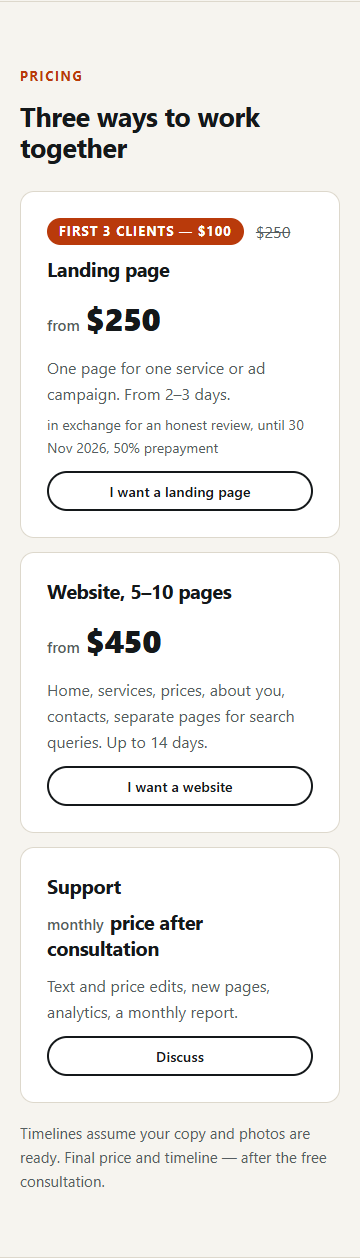
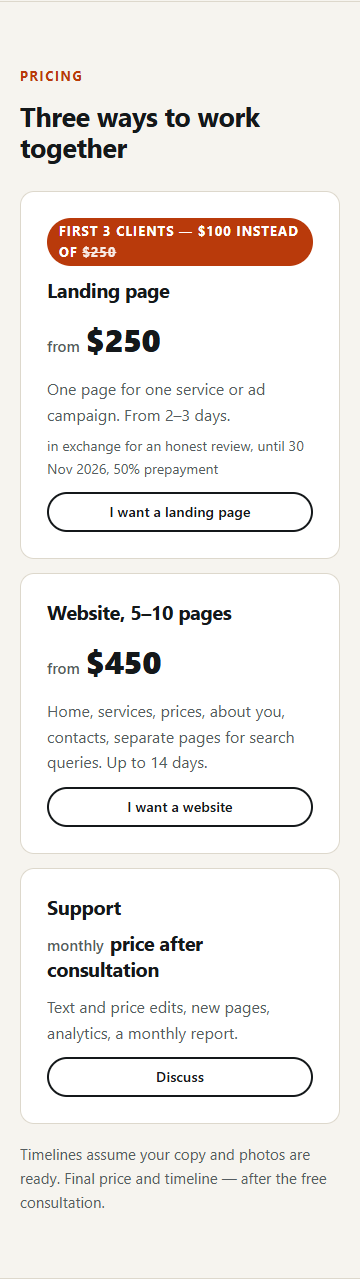
Landing badge on one line with <del>; main #contact works without JS
/sites/: the promo is one badge ('First 3 clients — $100 instead of <del>$250</del>'), <del> inherits the badge colour at opacity .9 (AA contrast). Main pages: #contact gets a static Telegram link, .js-only email controls, <noscript><style> in the head and the new noscript text. style.css v=9 on all six pages.

diff --git a/ua/index.html b/ua/index.html
@@ -27,7 +27,7 @@
 <meta property="og:locale" content="uk_UA">
 <meta property="og:locale:alternate" content="en_US">
 <meta name="twitter:card" content="summary_large_image">
-<link rel="stylesheet" href="../css/style.css?v=8">
+<link rel="stylesheet" href="../css/style.css?v=9">
 <script type="application/ld+json">
 {
   "@context": "https://schema.org",
@@ -65,6 +65,7 @@
   ]
 }
 </script>
+<noscript><style>.js-only{display:none}</style></noscript>
 </head>
 <body>
 <a class="skip" href="#main">Перейти до змісту</a>
@@ -372,14 +373,14 @@
       <p class="lead">Достатньо одного повідомлення: посилання і що ви хочете дізнатися чи виправити. Я відповім безкоштовним першим переглядом.</p>
       <div class="contact__buttons">
         <a class="btn btn--primary" href="https://www.fiverr.com/maxf_itsak" target="_blank" rel="noopener" data-fiverr-link data-contact="fiverr">Fiverr</a>
-        <a class="btn" href="#contact" data-email-link data-contact="email">Email</a>
-        <a class="btn" href="#contact" target="_blank" rel="noopener" data-telegram-link data-contact="telegram">Telegram</a>
+        <a class="btn js-only" href="#contact" data-email-link data-contact="email">Email</a>
+        <a class="btn" href="https://t.me/studiofits" target="_blank" rel="noopener" data-telegram-link data-contact="telegram">Telegram</a>
       </div>
-      <div class="email-row">
+      <div class="email-row js-only">
         <code data-email-text></code>
         <button type="button" class="btn btn--small" data-copy-email data-done="Скопійовано">Копіювати</button>
       </div>
-      <noscript><p class="noscript">Email і Telegram потребують JavaScript. Мене завжди можна знайти на Fiverr.</p></noscript>
+      <noscript><p class="noscript">Без JavaScript: скористайтесь формою вище або Telegram <a href="https://t.me/studiofits" target="_blank" rel="noopener">@studiofits</a></p></noscript>
     </div>
   </section>
 

diff --git a/index.html b/index.html
@@ -27,7 +27,7 @@
 <meta property="og:locale" content="en_US">
 <meta property="og:locale:alternate" content="uk_UA">
 <meta name="twitter:card" content="summary_large_image">
-<link rel="stylesheet" href="css/style.css?v=8">
+<link rel="stylesheet" href="css/style.css?v=9">
 <script type="application/ld+json">
 {
   "@context": "https://schema.org",
@@ -64,6 +64,7 @@
   ]
 }
 </script>
+<noscript><style>.js-only{display:none}</style></noscript>
 </head>
 <body>
 <a class="skip" href="#main">Skip to content</a>
@@ -372,14 +373,14 @@
       <p class="lead">One message is enough: a link and what you want to learn or fix. I reply with a free first look.</p>
       <div class="contact__buttons">
         <a class="btn btn--primary" href="https://www.fiverr.com/maxf_itsak" target="_blank" rel="noopener" data-fiverr-link data-contact="fiverr">Fiverr</a>
-        <a class="btn" href="#contact" data-email-link data-contact="email">Email</a>
-        <a class="btn" href="#contact" target="_blank" rel="noopener" data-telegram-link data-contact="telegram">Telegram</a>
+        <a class="btn js-only" href="#contact" data-email-link data-contact="email">Email</a>
+        <a class="btn" href="https://t.me/studiofits" target="_blank" rel="noopener" data-telegram-link data-contact="telegram">Telegram</a>
       </div>
-      <div class="email-row">
+      <div class="email-row js-only">
         <code data-email-text></code>
         <button type="button" class="btn btn--small" data-copy-email data-done="Copied">Copy</button>
       </div>
-      <noscript><p class="noscript">Email and Telegram details need JavaScript. You can always reach me on Fiverr.</p></noscript>
+      <noscript><p class="noscript">Without JavaScript: use the form above or Telegram <a href="https://t.me/studiofits" target="_blank" rel="noopener">@studiofits</a></p></noscript>
     </div>
   </section>
 

diff --git a/ua/sites/index.html b/ua/sites/index.html
@@ -27,7 +27,7 @@
 <meta property="og:locale" content="uk_UA">
 <meta property="og:locale:alternate" content="en_US">
 <meta name="twitter:card" content="summary_large_image">
-<link rel="stylesheet" href="../../css/style.css?v=8">
+<link rel="stylesheet" href="../../css/style.css?v=9">
 <script type="application/ld+json">
 {
   "@context": "https://schema.org",
@@ -169,7 +169,7 @@
       <h2 class="h2">Три формати роботи</h2>
       <div class="cards cards--three">
         <article class="card">
-          <p class="card__promo"><span class="badge">Перші 3 клієнти — 4&nbsp;000&nbsp;грн</span> <del>10&nbsp;000&nbsp;грн</del></p>
+          <span class="badge">Перші 3 клієнти — 4&nbsp;000&nbsp;грн замість <del>10&nbsp;000&nbsp;грн</del></span>
           <h3>Лендинг</h3>
           <p class="card__price"><span>від</span>10&nbsp;000&nbsp;грн</p>
           <p>Одна сторінка під одну послугу чи рекламу. Від 2–3 днів.</p>

diff --git a/sites/index.html b/sites/index.html
@@ -27,7 +27,7 @@
 <meta property="og:locale" content="en_US">
 <meta property="og:locale:alternate" content="uk_UA">
 <meta name="twitter:card" content="summary_large_image">
-<link rel="stylesheet" href="../css/style.css?v=8">
+<link rel="stylesheet" href="../css/style.css?v=9">
 <script type="application/ld+json">
 {
   "@context": "https://schema.org",
@@ -169,7 +169,7 @@
       <h2 class="h2">Three ways to work together</h2>
       <div class="cards cards--three">
         <article class="card">
-          <p class="card__promo"><span class="badge">First 3 clients — $100</span> <del>$250</del></p>
+          <span class="badge">First 3 clients — $100 instead of <del>$250</del></span>
           <h3>Landing page</h3>
           <p class="card__price"><span>from</span>$250</p>
           <p>One page for one service or ad campaign. From 2–3 days.</p>

diff --git a/ua/privacy/index.html b/ua/privacy/index.html
@@ -13,7 +13,7 @@
 <link rel="icon" href="../../favicon.svg" type="image/svg+xml">
 <link rel="icon" href="../../favicon-32.png" sizes="32x32" type="image/png">
 <link rel="apple-touch-icon" href="../../apple-touch-icon.png">
-<link rel="stylesheet" href="../../css/style.css?v=8">
+<link rel="stylesheet" href="../../css/style.css?v=9">
 </head>
 <body>
 <a class="skip" href="#main">Перейти до змісту</a>

diff --git a/privacy/index.html b/privacy/index.html
@@ -13,7 +13,7 @@
 <link rel="icon" href="../favicon.svg" type="image/svg+xml">
 <link rel="icon" href="../favicon-32.png" sizes="32x32" type="image/png">
 <link rel="apple-touch-icon" href="../apple-touch-icon.png">
-<link rel="stylesheet" href="../css/style.css?v=8">
+<link rel="stylesheet" href="../css/style.css?v=9">
 </head>
 <body>
 <a class="skip" href="#main">Skip to content</a>

diff --git a/css/style.css b/css/style.css
@@ -341,4 +341,4 @@ body.is-dialog-open .sticky-cta { display: none; }
 }
 
 del { color: var(--muted); }
-.card .card__promo { flex: none; display: flex; flex-wrap: wrap; align-items: center; gap: 6px 12px; }
+.badge del { color: inherit; opacity: 0.9; }
